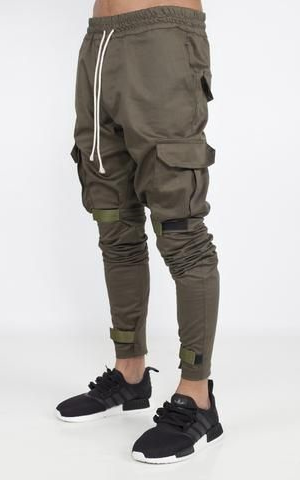
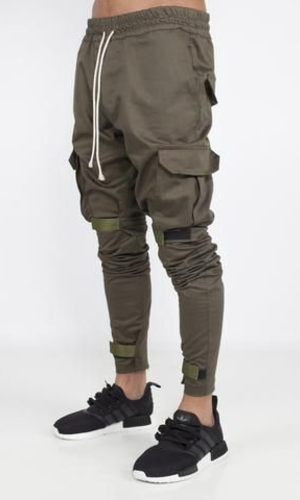
[ADD-FIX] se adicionó código al .scss mejorando algunos detalles de presentación y ajuste responsivo, también se ajustaron 3 imágenes al tamaño definido para las cards de la página Colecciones

diff --git a/estilos.scss b/estilos.scss
@@ -3,3 +3,118 @@
     margin: 0;
     box-sizing: border-box;
 }
+
+$color-p1: #CCD5AE;
+$color-p2: #E9EDC9;
+$color-p3: #FEFAE0;
+$color-p4: #FAEDCD;
+$color-p5: #D4A373;
+$color-p6: #806953;
+
+$color-aux1: rgb(211, 238, 238);
+$color-aux2: rgb(152, 230, 230);
+
+/* barra de navegación - menú principal */
+.navbar{
+    height: 80px;
+
+    .navbar-brand{
+        background-color: #fff !important;  
+        color: black !important;
+        padding-left: 10px;
+
+        img{
+            height: 60px;
+        }
+        span{
+            padding-right: 20px;
+        }
+    }
+}
+
+/* Galeria */
+.portada1{
+    background-color: $color-p6;
+}
+.portada2{
+    background-color: $color-aux1;
+}
+.imagen{
+    width: 495px;
+    padding: 0;
+}
+.linea{
+    border-top: 1px solid black;
+    max-width: 100px;
+    margin: 30px auto 20px auto;
+}
+
+@mixin contenedor-texto-home($largo, $ancho, $alto, $color) {
+    height: $largo;
+    width: $ancho;
+    background-color: $color;
+    padding-top: $alto;
+    text-align: center;
+}
+
+.texto1{
+    @include contenedor-texto-home(495px, 495px, 180px, $color-p4);
+}
+.texto2{
+    @include contenedor-texto-home(495px, 495px, 180px, $color-aux2);
+}
+
+/* cards de las características del producto */
+.tarjetas{
+    background-color: $color-p4;
+    padding: 20px;
+}
+.tit-tarjetas{
+    text-align: center !important;
+    padding-top: 40px;
+}
+.tarj-h{
+    padding: 20px;
+
+    img {
+        padding: 50px;
+    }
+}
+
+/* suscripción al boletín */
+.boletin{
+    height: 300px;
+    background-color: $color-p1;
+
+    .tit-boletin{
+        padding-top: 40px;
+        text-align: center;
+    }
+
+    .email-form{
+        margin-bottom: 10px;
+    }
+}
+
+/* footer */
+.pie-pag{
+    padding: 20px;
+}
+
+/* página COLECCION */
+
+/* título de la galería */
+.tit-galeria{
+    padding: 20px;
+    text-align: center;
+    font-size: medium;
+    background-color: $color-p6;
+}
+
+.columna-c{
+    padding: 20px;
+
+    .tarj-c{
+        padding: 20px;
+    }
+}

diff --git a/estilos.css b/estilos.css
@@ -1,5 +1,110 @@
+@charset "UTF-8";
 * {
   padding: 0;
   margin: 0;
   box-sizing: border-box;
+}
+
+/* barra de navegación - menú principal */
+.navbar {
+  height: 80px;
+}
+.navbar .navbar-brand {
+  background-color: #fff !important;
+  color: black !important;
+  padding-left: 10px;
+}
+.navbar .navbar-brand img {
+  height: 60px;
+}
+.navbar .navbar-brand span {
+  padding-right: 20px;
+}
+
+/* Galeria */
+.portada1 {
+  background-color: #806953;
+}
+
+.portada2 {
+  background-color: rgb(211, 238, 238);
+}
+
+.imagen {
+  width: 495px;
+  padding: 0;
+}
+
+.linea {
+  border-top: 1px solid black;
+  max-width: 100px;
+  margin: 30px auto 20px auto;
+}
+
+.texto1 {
+  height: 495px;
+  width: 495px;
+  background-color: #FAEDCD;
+  padding-top: 180px;
+  text-align: center;
+}
+
+.texto2 {
+  height: 495px;
+  width: 495px;
+  background-color: rgb(152, 230, 230);
+  padding-top: 180px;
+  text-align: center;
+}
+
+/* cards de las características del producto */
+.tarjetas {
+  background-color: #FAEDCD;
+  padding: 20px;
+}
+
+.tit-tarjetas {
+  text-align: center !important;
+  padding-top: 40px;
+}
+
+.tarj-h {
+  padding: 20px;
+}
+.tarj-h img {
+  padding: 50px;
+}
+
+/* suscripción al boletín */
+.boletin {
+  height: 300px;
+  background-color: #CCD5AE;
+}
+.boletin .tit-boletin {
+  padding-top: 40px;
+  text-align: center;
+}
+.boletin .email-form {
+  margin-bottom: 10px;
+}
+
+/* footer */
+.pie-pag {
+  padding: 20px;
+}
+
+/* página COLECCION */
+/* título de la galería */
+.tit-galeria {
+  padding: 20px;
+  text-align: center;
+  font-size: medium;
+  background-color: #806953;
+}
+
+.columna-c {
+  padding: 20px;
+}
+.columna-c .tarj-c {
+  padding: 20px;
 }/*# sourceMappingURL=estilos.css.map */
